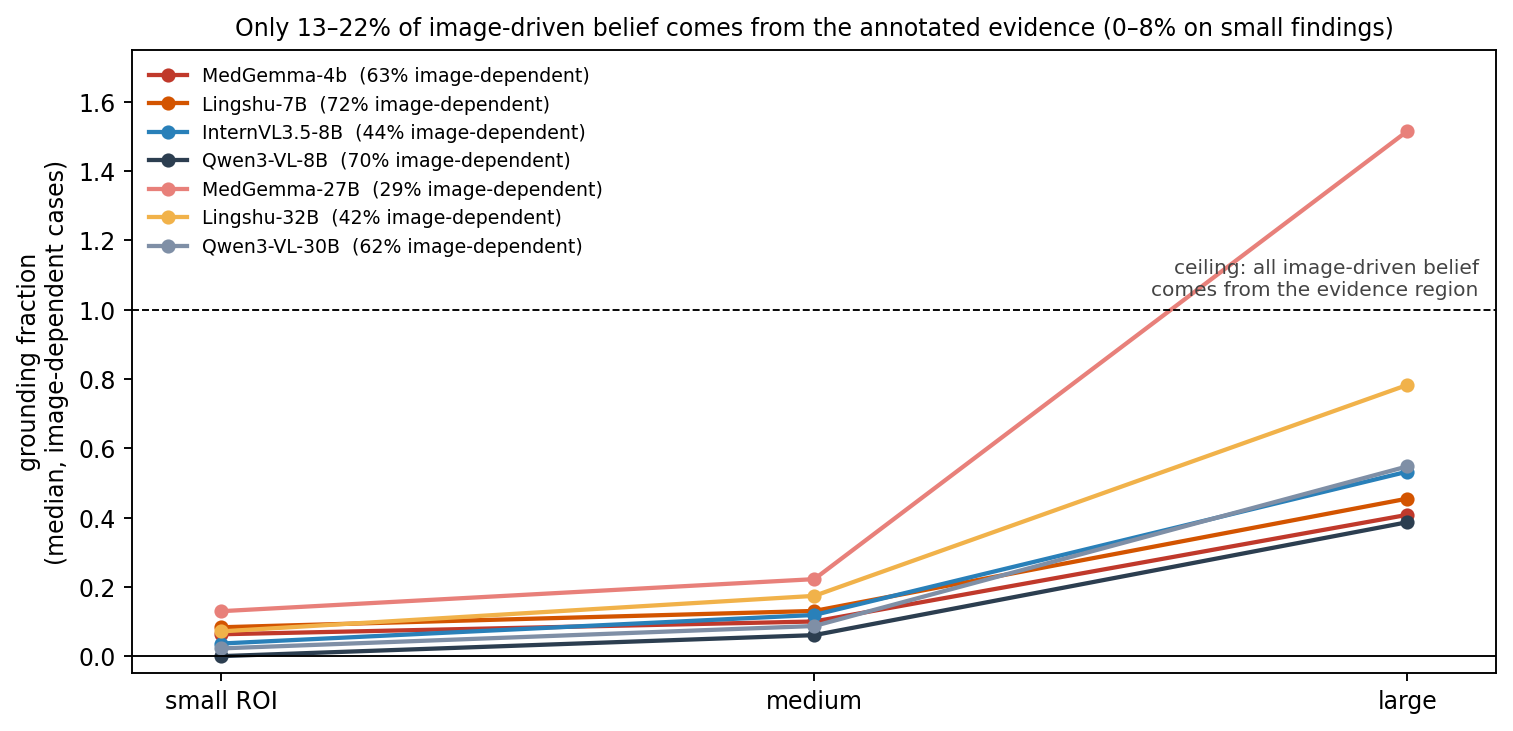
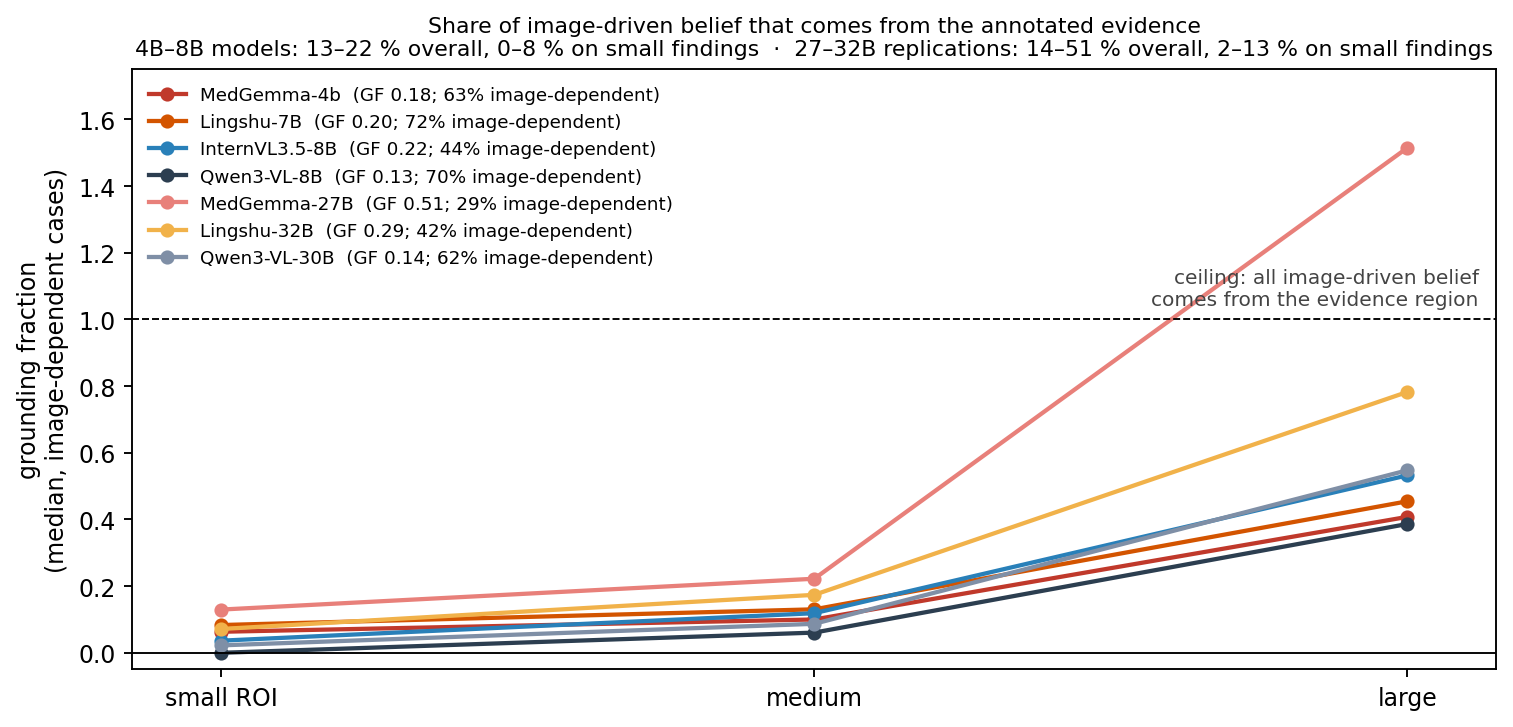
README: scope the grounding-fraction headline correctly (13–22 % is the four 4B–8B models; 27–32B replications 14–51 %, 2–13 % on small findings); GF figure title to match

diff --git a/README.md b/README.md
@@ -39,7 +39,7 @@
 
 > [!TIP]
 > **TL;DR** — VinDr-Ground-VQA pairs every positive chest-X-ray question with a **lesion-level radiologist box** and an **image-necessary matched negative**, then measures grounding as the occlusion effect of that box **in excess of a size-matched random region**. Across nine models from 4B to 32B:
-> - 🎯 only **13–22 %** of a model's image-driven belief comes from the annotated evidence (**0–8 %** on small findings);
+> - 🎯 in the four 4B–8B models only **13–22 %** of image-driven belief comes from the annotated evidence (**0–8 %** on small findings); the 27–32B replications reach 14–51 % overall but still only **2–13 %** on small findings;
 > - 🧩 **correlated context substitutes for direct evidence** — the evidence effect collapses 3–5× while detection is unchanged;
 > - 🩺 the **medically tuned** models carry the largest co-occurrence false-positive increment at every scale tested.
 
